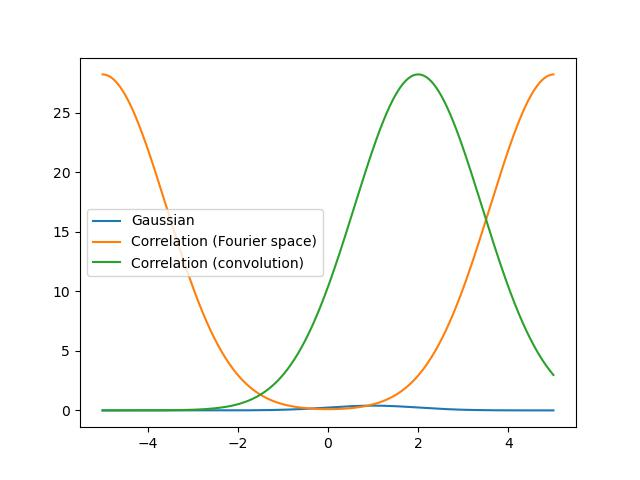
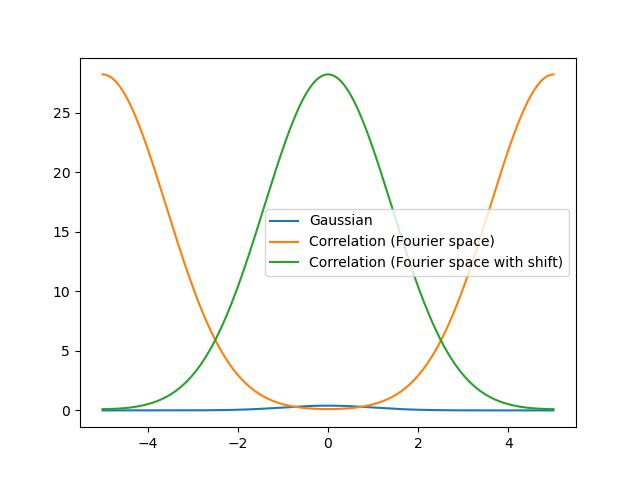
finished q2 and started q3

diff --git a/Assignment 6/a6q2.py b/Assignment 6/a6q2.py
@@ -3,8 +3,12 @@ import matplotlib.pyplot as plt
 
 
 # Defining the correlation function
-def cor_func(a, b):
-    return np.fft.ifft(np.fft.fft(a) * np.conjugate(np.fft.fft(b)))
+def cor_func(a, b, shift = False):
+    if not shift:
+        return np.fft.ifft(np.fft.fft(a) * np.conjugate(np.fft.fft(b)))
+    if shift:
+        return np.fft.fftshift(np.fft.ifft(np.fft.fft(a) * np.conjugate(np.fft.fft(b))))
+
 
 
 # Part a)
@@ -13,12 +17,15 @@ def cor_func(a, b):
 x = np.linspace(-5, 5, 1001)
 y1 = np.exp(-x**2/2)/(np.sqrt(2*np.pi))
 y2 = cor_func(y1, y1)
+y4 = cor_func(y1, y1, shift = True)
 y3 = np.convolve(y1, y1, 'same')
+
 
  # plotting
 plt.plot(x, y1, label = "Gaussian")
 plt.plot(x, y2, label = "Correlation (Fourier space)")
-plt.plot(x, y3, label = "Correlation (convolution)")
+plt.plot(x, y4, label = "Correlation (Fourier space with shift)")
+#plt.plot(x, y3, label = "Correlation (convolution)")
 plt.legend()
 plt.savefig("figs/a6q2_a_gauss_cor.jpg")
 plt.show()
@@ -28,16 +35,18 @@ plt.show()
 
 # Generating our arrays
 x = np.linspace(-5, 5, 1001)
-y1 = np.exp(-(x-1)**2/2)/(np.sqrt(2*np.pi))
+y1 = np.exp(-(x-2.5)**2/2)/(np.sqrt(2*np.pi))
 y2 = cor_func(y1, y1)
-y3 = np.convolve(y1, y1, 'same')
+y4 = cor_func(y1, y1, shift = True)
+#y3 = np.convolve(y1, y1, 'same')
 
  # plotting
 plt.plot(x, y1, label = "Gaussian")
 plt.plot(x, y2, label = "Correlation (Fourier space)")
-plt.plot(x, y3, label = "Correlation (convolution)")
+plt.plot(x, y4, label = "Correlation (Fourier space with shift)")
+#plt.plot(x, y3, label = "Correlation (convolution)")
 plt.legend()
-plt.savefig("figs/a6q2_a_gauss_cor.jpg")
+plt.savefig("figs/a6q2_b_gauss_cor.jpg")
 plt.show()
 
 

diff --git a/Assignment 6/a6q3.py b/Assignment 6/a6q3.py
@@ -1,0 +1,3 @@
+import numpy as np 
+import matplotlib.pyplot as plt
+
